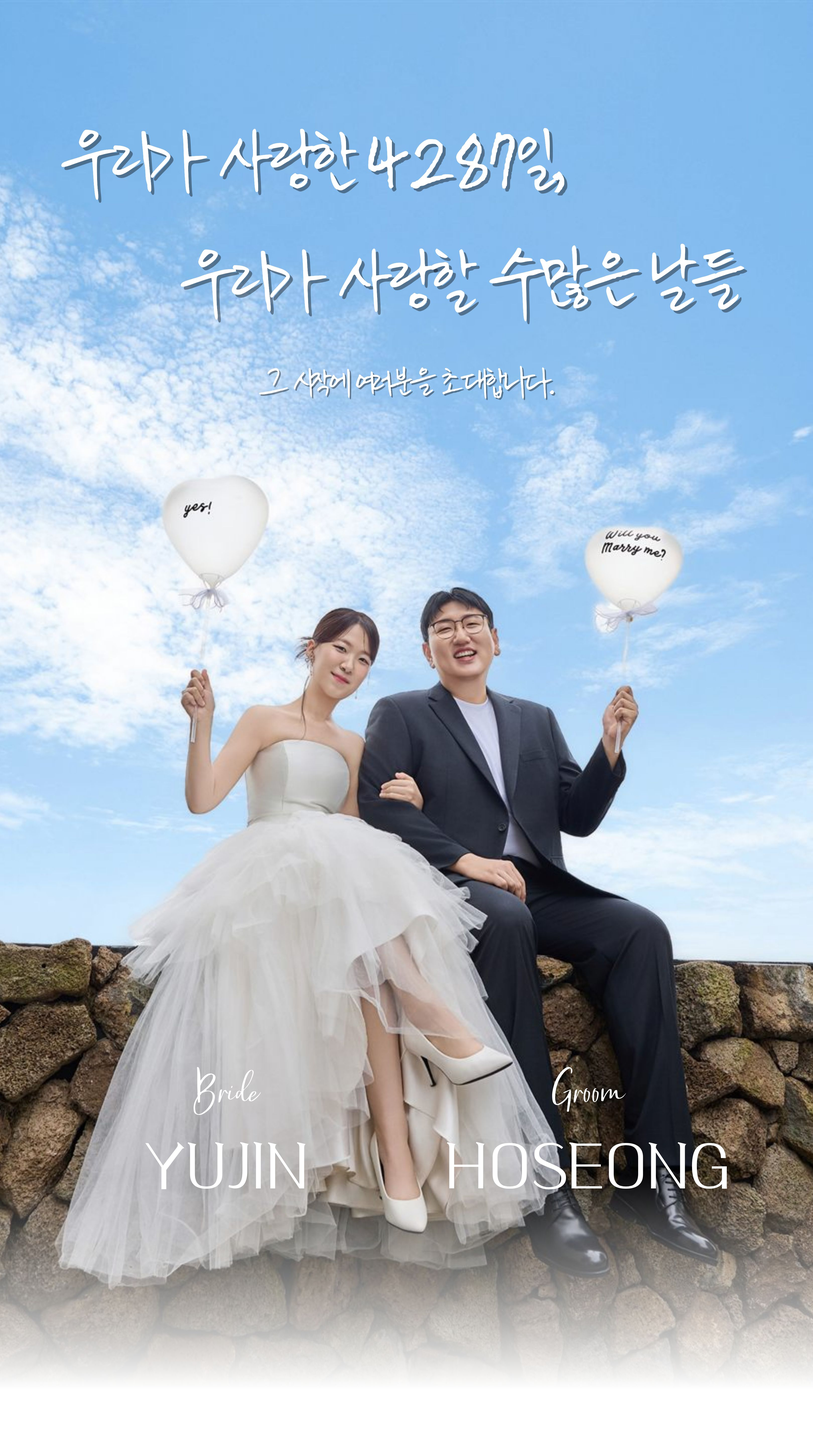
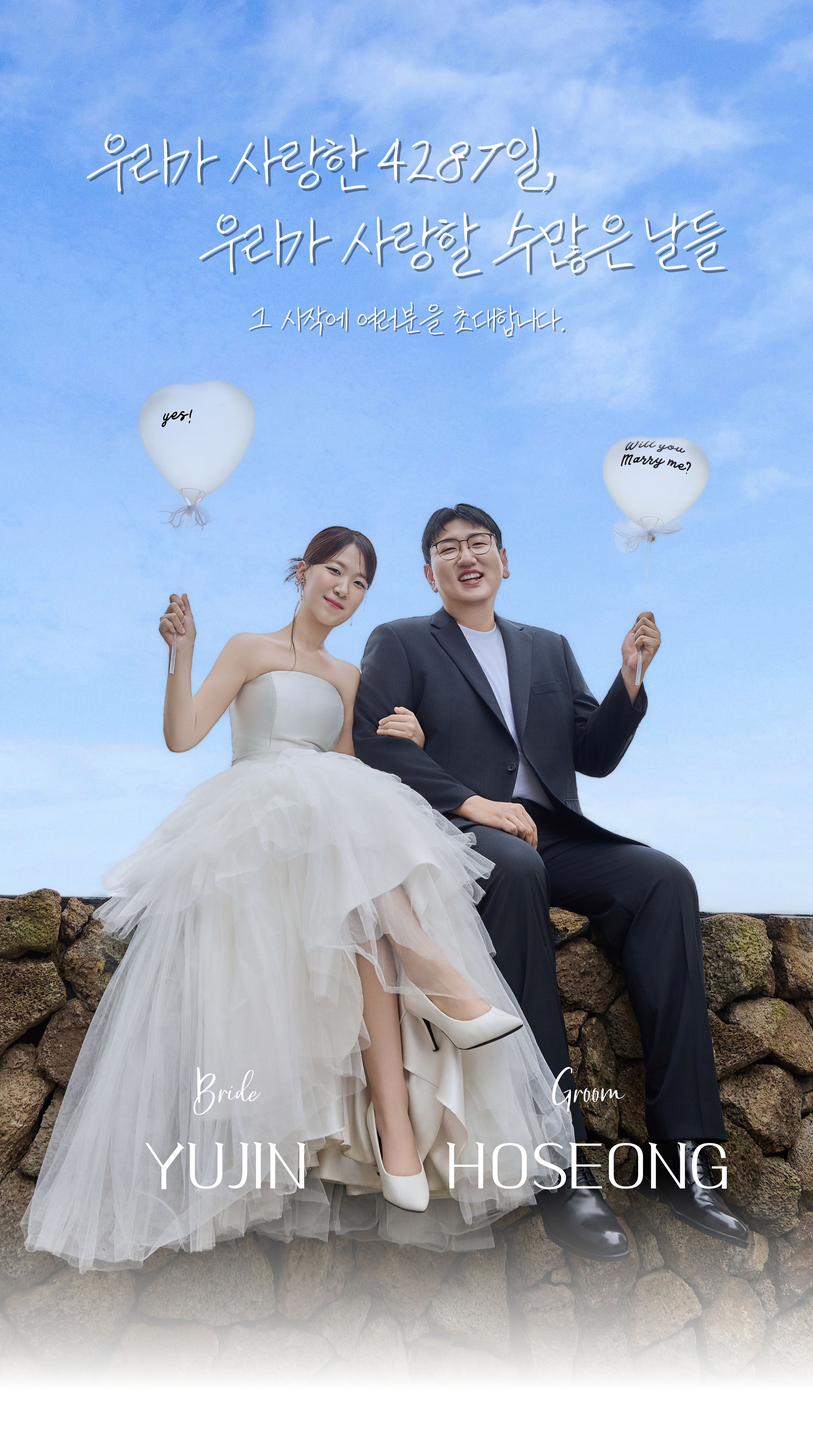
오늘의 주인공: 3.jpg 배경 + 신부(좌)·신랑(우) 이름 상단 배치
- style-v.css: gallery 페이지 배경에 images/3.jpg(center bottom/cover),
  내용 상단 정렬(align-items:flex-start), 이름을 row-reverse+space-between로
  사진 속 위치(신부 왼쪽·신랑 오른쪽)에 맞춰 좌우 배치
- images/3.jpg 추가, images/1.jpg(표지) 교체

diff --git a/style-v.css b/style-v.css
@@ -58,6 +58,22 @@ body {
 .h-page[data-page="location"] .h-page-inner,
 .h-page[data-page="accounts"] .h-page-inner,
 .h-page[data-page="photos"] .h-page-inner { width:100%; }
+
+/* ── 오늘의 주인공: 커플 사진(images/3.jpg)을 페이지 배경으로 + 이름 상단 배치 ── */
+/* 하단 기준(center bottom)이라 앉아있는 커플이 항상 보이고, 넓은 흰 여백은 상단에 남는다 */
+.h-page[data-page="gallery"] {
+  align-items:flex-start;   /* 내용을 흰 여백(상단)으로 올림 */
+  background:#fff url("https://raw.githubusercontent.com/hoseong911/270117/main/images/3.jpg?v=1") center bottom / cover no-repeat;
+}
+.h-page[data-page="gallery"] .sec { padding-top:3.2rem; }
+/* 사진 속 위치에 맞춰 신부=왼쪽 · 신랑=오른쪽 (HTML은 신랑이 먼저라 row-reverse로 뒤집음) */
+.h-page[data-page="gallery"] .stars-grid {
+  flex-direction:row-reverse;
+  justify-content:space-between;
+  gap:0;
+  padding:0 1.4rem;
+  margin:1.4rem 0 0;
+}
 .h-page[data-page="accounts"] .sec { padding-top:1.1rem; padding-bottom:1.1rem; }
 /* 오시는 길 → 마음전달 사이만 살짝 더 띄우기 */
 .h-page[data-page="accounts"] .sec:first-child { padding-top:1.8rem; }
